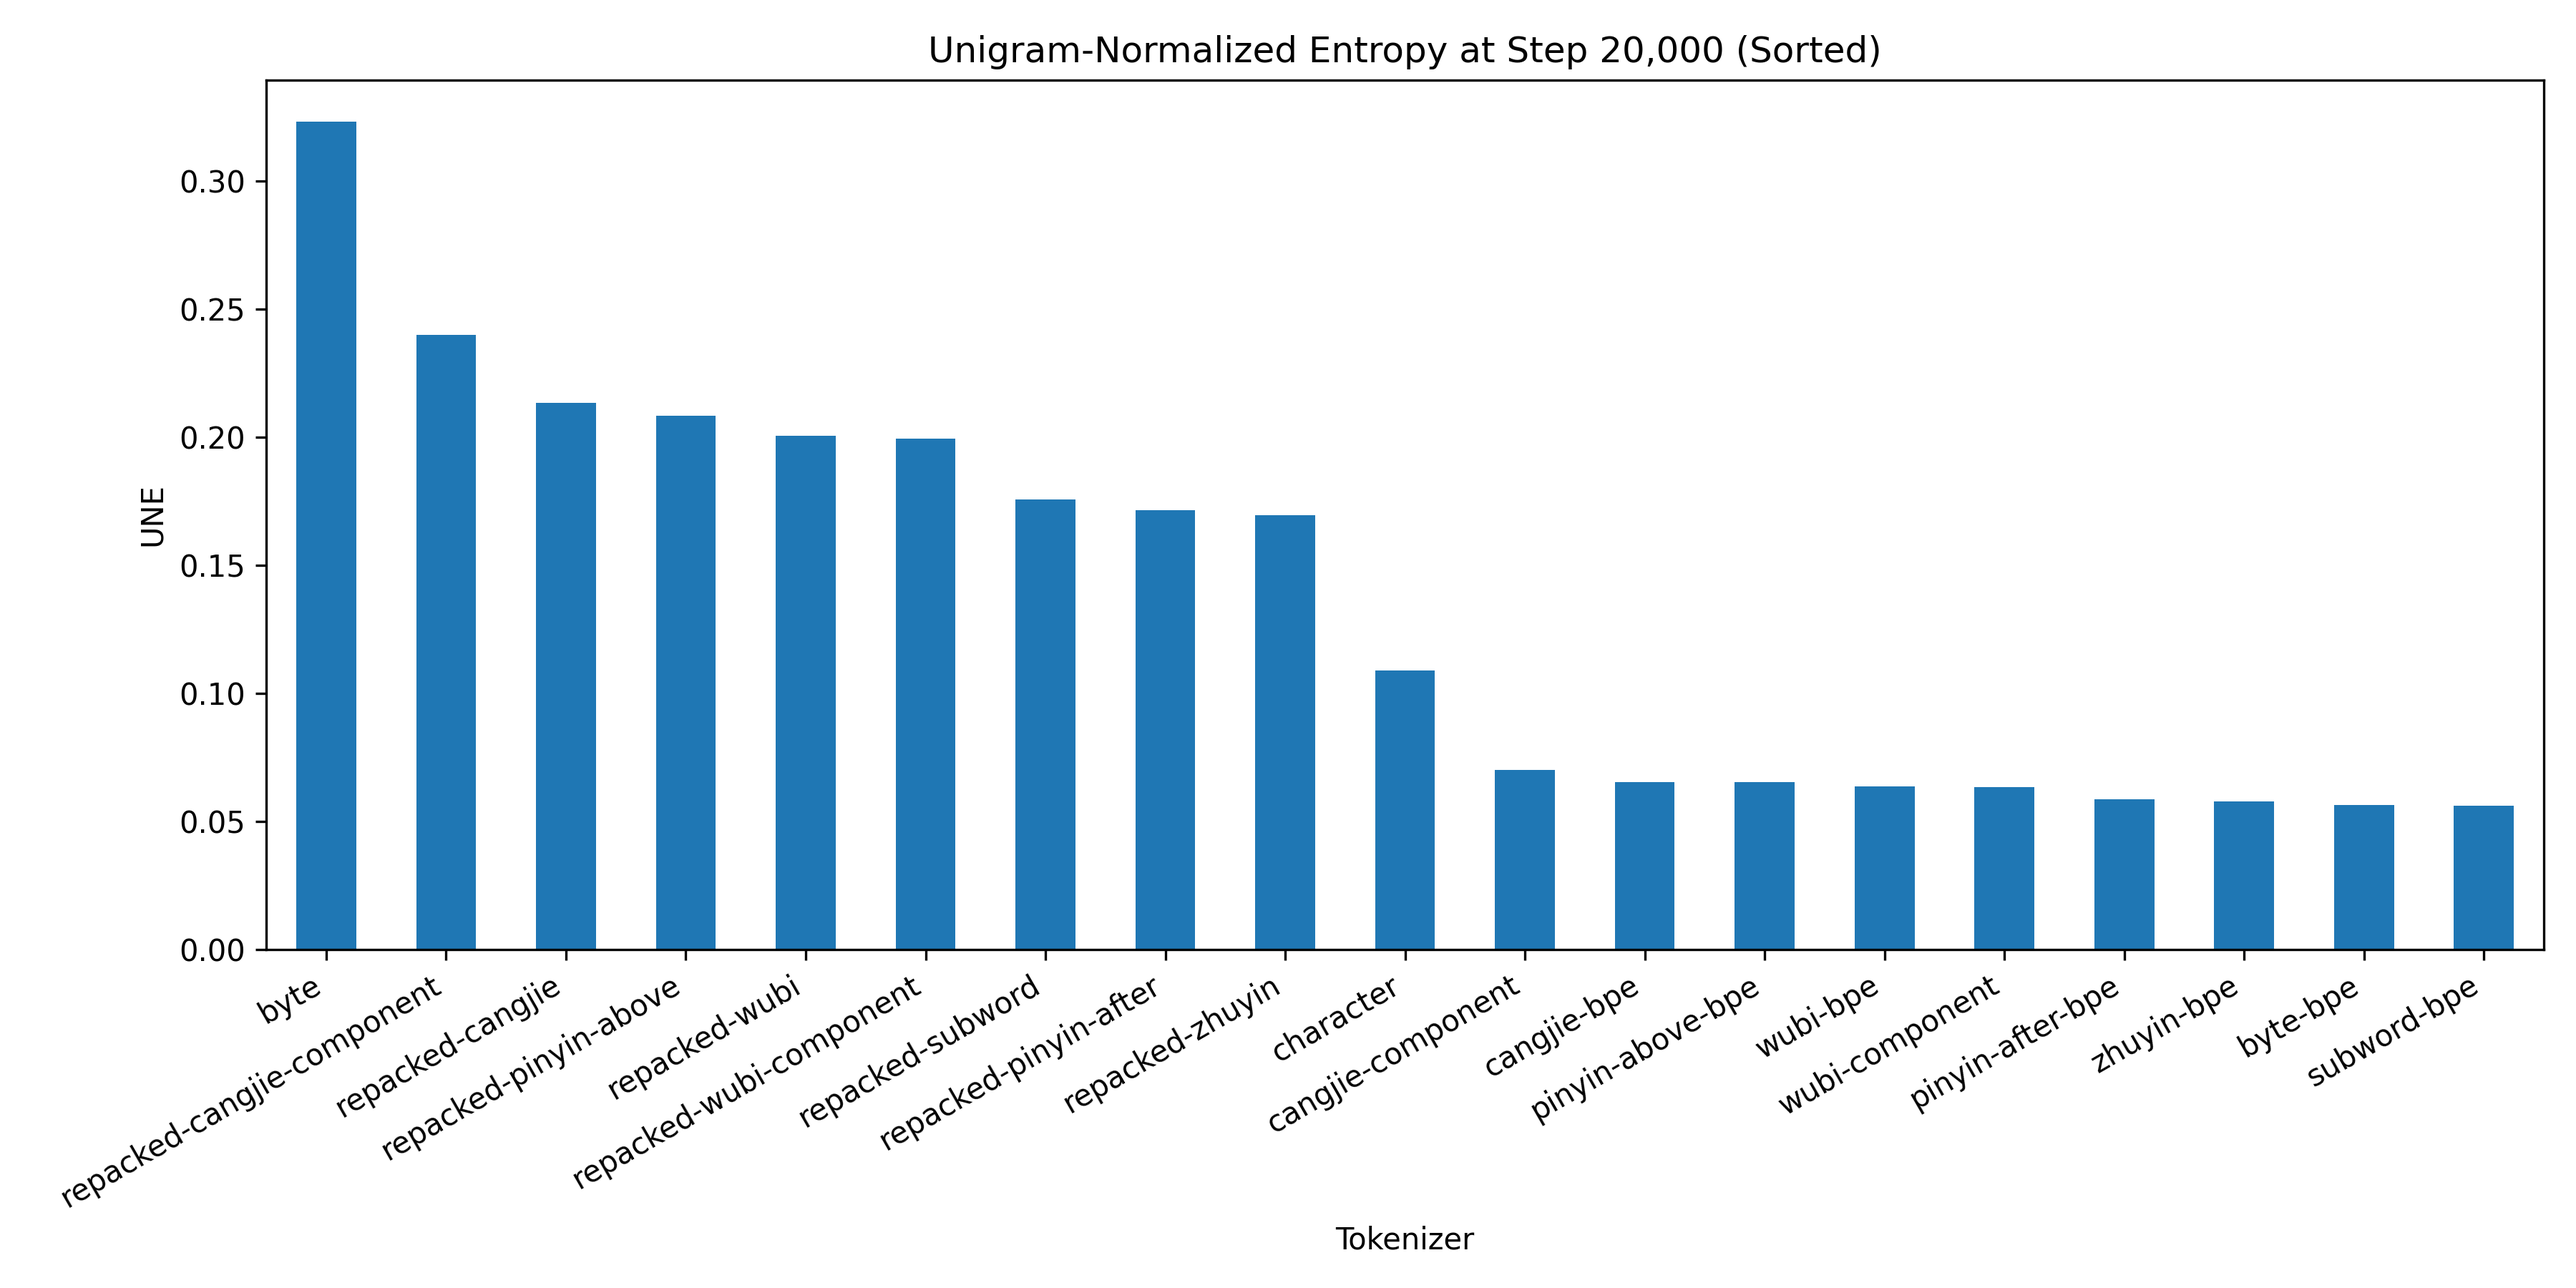
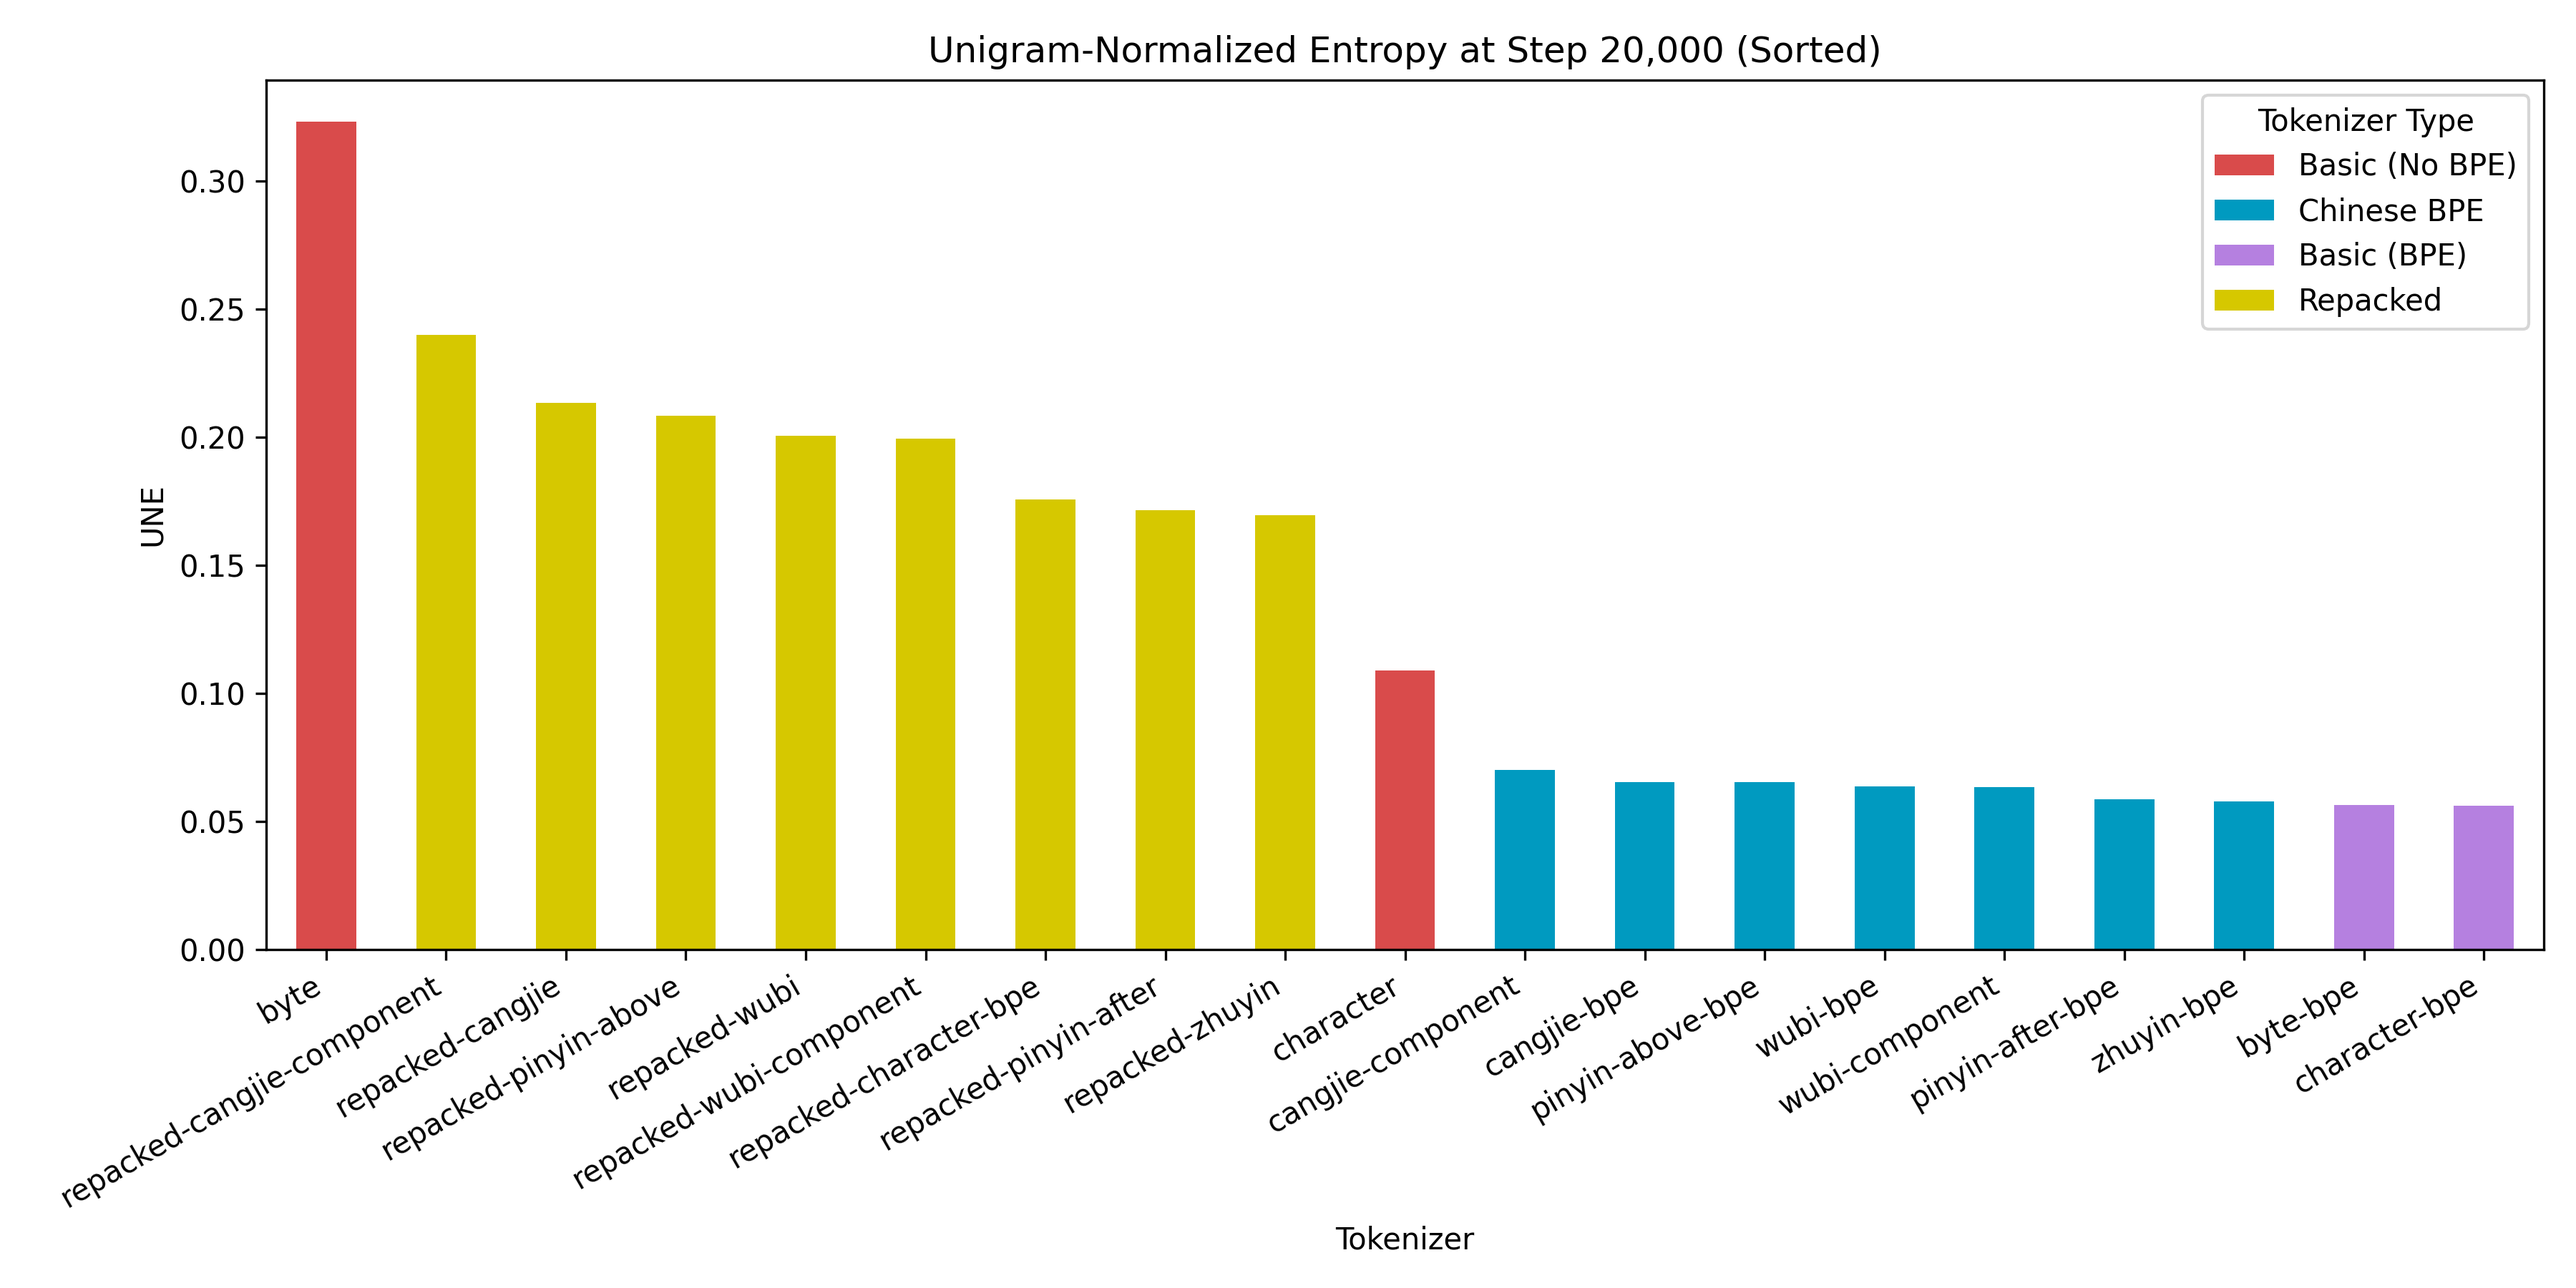
added colors to graphs

diff --git a/gpt-training/results_visualization.py b/gpt-training/results_visualization.py
@@ -1,36 +1,62 @@
 import pandas as pd
 import matplotlib.pyplot as plt
 
+tokenizer_categories = {
+    'character': 'Basic (No BPE)',
+    'byte': 'Basic (No BPE)',
+    'character-bpe': 'Basic (BPE)',
+    'byte-bpe': 'Basic (BPE)',
+    'pinyin-above-bpe': 'Chinese BPE',
+    'pinyin-after-bpe': 'Chinese BPE',
+    'zhuyin-bpe': 'Chinese BPE',
+    'cangjie-bpe': 'Chinese BPE',
+    'cangjie-component': 'Chinese BPE',
+    'wubi-bpe': 'Chinese BPE',
+    'wubi-component': 'Chinese BPE',
+    'repacked-character-bpe': 'Repacked',
+    'repacked-cangjie': 'Repacked',
+    'repacked-cangjie-component': 'Repacked',
+    'repacked-pinyin-above': 'Repacked',
+    'repacked-pinyin-after': 'Repacked',
+    'repacked-wubi': 'Repacked',
+    'repacked-wubi-component': 'Repacked',
+    'repacked-zhuyin': 'Repacked',
+}
+
+category_colors = {
+    'Basic (No BPE)': '#D94B4B',
+    'Chinese BPE': '#009AC0',
+    'Basic (BPE)': '#B580E0',
+    'Repacked': '#D6C800',
+}
+
 def visualize_results(path):
     # Load the CSV file
     df = pd.read_csv(path)
 
-    #df.set_index('step', inplace=True)
-    #df.columns = df.columns.str.replace('experiments/', '', regex=False)
-
-    # Bar graph of number of val. tokens
-    df = df.T
-    df.columns = ['Num_Tokens']
-    df.index.name = 'Tokenizer'
-    df_sorted = df.sort_values(by='Num_Tokens', ascending=False)
-    plt.figure(figsize=(12, 6))
-    plt.bar(df_sorted.index, df_sorted['Num_Tokens'], width=0.5)
-    plt.title("Per-Token Entropy Ratios by Tokenizer (Sorted)")
-    plt.xlabel("Tokenizer")
-    plt.ylabel("Per-Token Entropy Ratios")
-    plt.xticks(rotation=30, ha='right')
-    plt.tight_layout()
-    plt.savefig("per_token_entropy_ratios.png", dpi=300)
-    plt.show()
-    return
+    df.set_index('step', inplace=True)
+    df.columns = df.columns.str.replace('experiments/', '', regex=False)
+    df.columns = df.columns.str.replace('subword-bpe', 'character-bpe', regex=False)
+    df.columns = df.columns.str.replace('repacked-subword', 'repacked-character-bpe', regex=False)
+    
     # Bar graph at 20,000 steps
     step_20000 = df.loc[20000].sort_values(ascending=False)
+    bar_colors = [category_colors[tokenizer_categories[tok]] for tok in step_20000.index]
     plt.figure(figsize=(12, 6))
-    step_20000.plot(kind='bar')
+    step_20000.plot(kind='bar', color=bar_colors)
     plt.title('Unigram-Normalized Entropy at Step 20,000 (Sorted)')
     plt.ylabel('UNE')
     plt.xlabel('Tokenizer')
     plt.xticks(rotation=30, ha='right')
+
+    # Add legend
+    from matplotlib.patches import Patch
+    legend_elements = [
+        Patch(facecolor=color, label=category)
+        for category, color in category_colors.items()
+    ]
+    plt.legend(handles=legend_elements, title='Tokenizer Type')
+
     plt.tight_layout()
     plt.savefig("final_comparison.png", dpi=300)
     plt.show()
@@ -51,6 +77,43 @@ def visualize_results(path):
     print("Saved figure: final_comparison.png")
     print("Saved figure: over_time.png")
 
+def visualize_per_token_entropy(path):
+    # Load the CSV file
+    df = pd.read_csv(path)
+
+    # Bar graph of number of val. tokens
+    df = df.T
+    df.columns = ['Num_Tokens']
+    df.index.name = 'Tokenizer'
+    df_sorted = df.sort_values(by='Num_Tokens', ascending=False)
+    df_sorted.index = df_sorted.index.str.replace('experiments/', '', regex=False)
+    df_sorted.index = df_sorted.index.str.replace('subword-bpe', 'character-bpe', regex=False)
+    df_sorted.index = df_sorted.index.str.replace('repacked-subword', 'repacked-character-bpe', regex=False)
+    plt.figure(figsize=(12, 6))
+    bar_colors = [category_colors[tokenizer_categories[tok]] for tok in df_sorted.index]
+    plt.bar(df_sorted.index, df_sorted['Num_Tokens'], width=0.5, color=bar_colors)
+    plt.title("Per-Token Entropy Ratios by Tokenizer (Sorted)")
+    plt.xlabel("Tokenizer")
+    plt.ylabel("Per-Token Entropy Ratios")
+    plt.xticks(rotation=30, ha='right')
+
+    # Add legend
+    from matplotlib.patches import Patch
+    legend_elements = [
+        Patch(facecolor=color, label=category)
+        for category, color in category_colors.items()
+    ]
+    plt.legend(handles=legend_elements, title='Tokenizer Type')
+
+    plt.tight_layout()
+    plt.savefig("per_token_entropy_ratios.png", dpi=300)
+    plt.show()
+
+    print("Saved figure: per_token_entropy_ratios.png")
+
 if __name__ == "__main__":
-    # Set to generate per-token entropy ratios bar graph
-    visualize_results("/mnt/storage/ntunggal/thesis-ntunggal/gpt-training/per_token_entropy_ratios.csv")
+    # Generate per-token entropy ratios bar graph
+    visualize_per_token_entropy("/mnt/storage/ntunggal/thesis-ntunggal/gpt-training/per_token_entropy_ratios.csv")
+
+    # Generate main results
+    visualize_results("/mnt/storage/ntunggal/thesis-ntunggal/gpt-training/compiled_entropy_ratios.csv")

diff --git a/gpt-training/train_gpt.py b/gpt-training/train_gpt.py
@@ -49,7 +49,6 @@ os.makedirs(logging_dir, exist_ok=True)
 # Load dataset
 print("Loading dataset...", flush=True)
 train_dataset, validation_dataset, entropy = load_baai_data()
-exit()
 
 # Create vocab if needed
 if save_directory != "" and not os.path.exists(save_directory):
@@ -67,9 +66,10 @@ print(f"tokenizer.bos_token_id: {tokenizer.bos_token_id}")
 print(f"tokenizer.eos_token_id: {tokenizer.eos_token_id}")
 print(f"tokenizer.pad_token_id: {tokenizer.pad_token_id}")
 
-print(f"tokenizer.tokenize(你好,最近怎么样？): {tokenizer.tokenize('你好,最近怎么样?')}")
+print(f"tokenizer._pretokenize(你好,我是机器人): {tokenizer._pretokenize('你好,我是机器人', 'pinyin_tone_after')}")
+print(f"tokenizer.tokenize(你好,我是机器人): {tokenizer.tokenize('你好,我是机器人')}")
 #print(f"tokenizer.remapped_utf8: {tokenizer.remapped_utf8}")
-
+exit()
 config = GPT2Config(
     vocab_size=len(tokenizer),        # Vocabulary size
     n_positions=model_config['n_positions'],    # Maximum length of input sequences (in tokens)

diff --git a/gpt-training/entropy.py b/gpt-training/entropy.py
@@ -30,7 +30,7 @@ def evaluate_unigram_model(model, sequences):
             num_chars += 1
         entropy += -math.log2(model['</s>'])
         num_chars += 1
-    print(f"num chars validation set: {num_chars}", flush=True)
+    #print(f"num chars validation set: {num_chars}", flush=True)
     return entropy
 
 def unigram_model_baseline(text_file):
